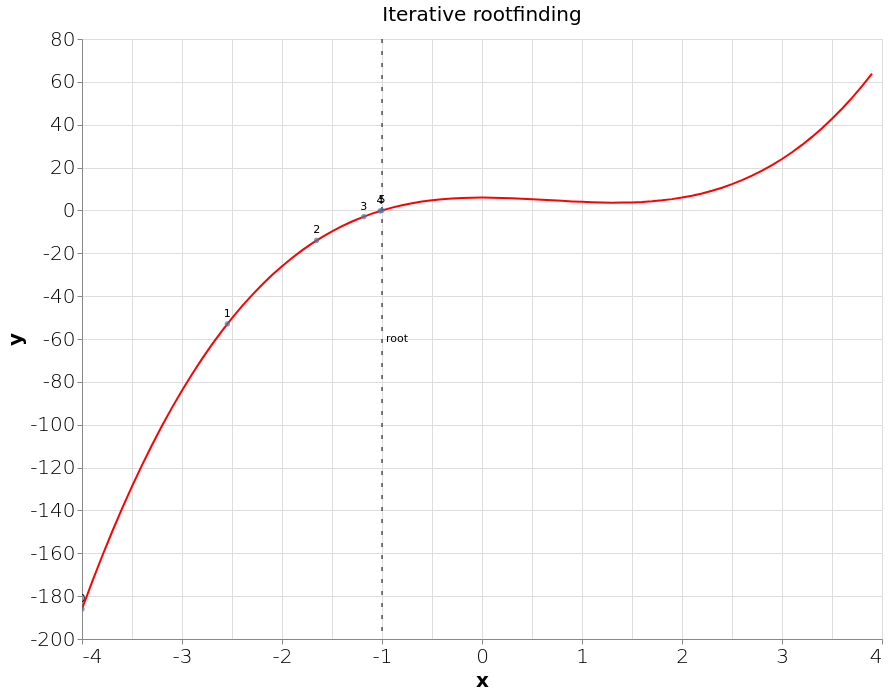
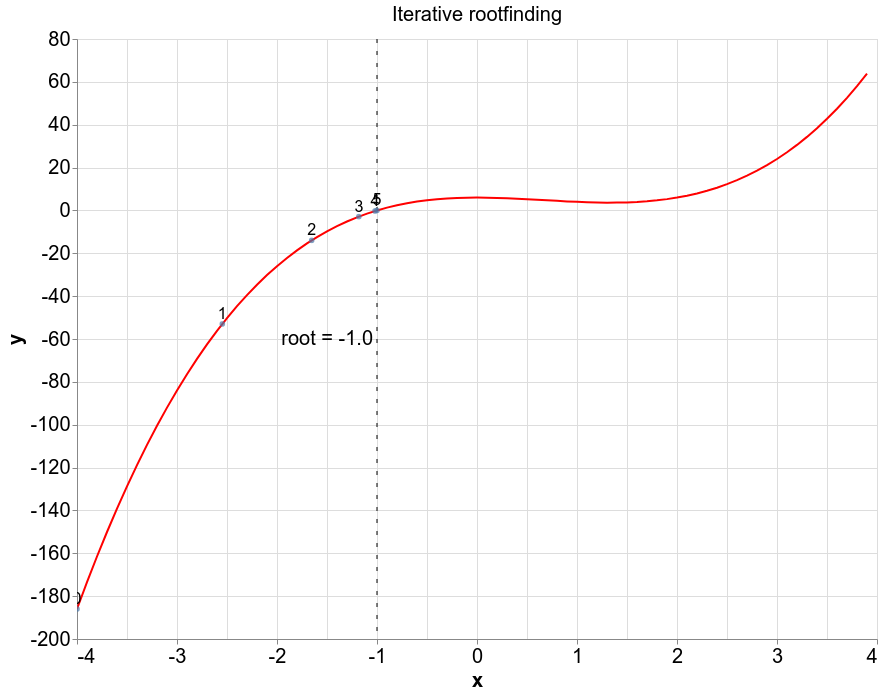
Use same text, style for root rule before and after
Refs #101

diff --git a/vega/app.html b/vega/app.html
@@ -10,7 +10,7 @@
 <body>
   <div id="plot"></div>
   <script>
-    createModule().then(({NewtonRaphson}) => {
+    createModule().then(({ NewtonRaphson }) => {
       const initial_guess = -4;
       const tolerance = 0.001;
       const newtonraphson = new NewtonRaphson(tolerance);
@@ -46,7 +46,18 @@
         "encoding": { "x": { "field": "x", "type": "quantitative" } },
         "layer": [
           { "mark": { "type": "rule", "strokeDash": [4, 8] } },
-          { "mark": { "type": "text", "align": "left", "dx": 4, "text": "root" } }
+          {
+            "mark": {
+              "type": "text",
+              "align": "right",
+              "baseline": "bottom",
+              "dx": -4,
+              "dy": 10,
+              "x": "width",
+              "fontSize": 20,
+              "text": "root = -1.0"
+            }
+          }
         ]
       };
       const iterations_scatter = {
@@ -80,14 +91,14 @@
             "mark": { "type": "circle", "tooltip": { "content": "data" } },
             "selection": { "grid": { "type": "interval", "bind": "scales" } }
           },
-          { "mark": { "type": "text", "dy": -10 } }
+          { "mark": { "type": "text", "dy": -10, "fontSize": 16 } }
         ]
       };
       const spec = {
         "$schema": "https://vega.github.io/schema/vega-lite/v4.json",
         "width": 800,
         "height": 600,
-        "title": {"text": "Iterative rootfinding", "fontSize": 20, "fontWeight": "normal"},
+        "title": { "text": "Iterative rootfinding", "fontSize": 20, "fontWeight": "normal" },
         "layer": [
           equation_line,
           root_rule,
@@ -98,4 +109,5 @@
     });
   </script>
 </body>
+
 </html>

diff --git a/vega/README.md b/vega/README.md
@@ -417,7 +417,18 @@ const root_rule = {
   "encoding": {"x": {"field": "x", "type": "quantitative"}},
   "layer": [
     {"mark": {"type": "rule", "strokeDash": [4, 8]}},
-    {"mark": {"type": "text", "align": "left", "dx": 4, "text": "root"}}
+    {"mark":
+      {
+        "type": "text",
+        "align": "right",
+        "baseline": "bottom",
+        "dx": -4,
+        "dy": 10,
+        "x": "width",
+        "fontSize": 20,
+        "text": "root = -1.0"
+      }
+    }
   ]
 };
 ```
@@ -457,7 +468,7 @@ const iterations_scatter = {
       "mark": {"type": "circle", "tooltip": {"content": "data"}},
       "selection": {"grid": {"type": "interval", "bind": "scales"}}
     },
-    {"mark": {"type": "text", "dy": -10}}
+    {"mark": {"type": "text", "dy": -10, "fontSize": 16}}
   ]
 };
 ```
